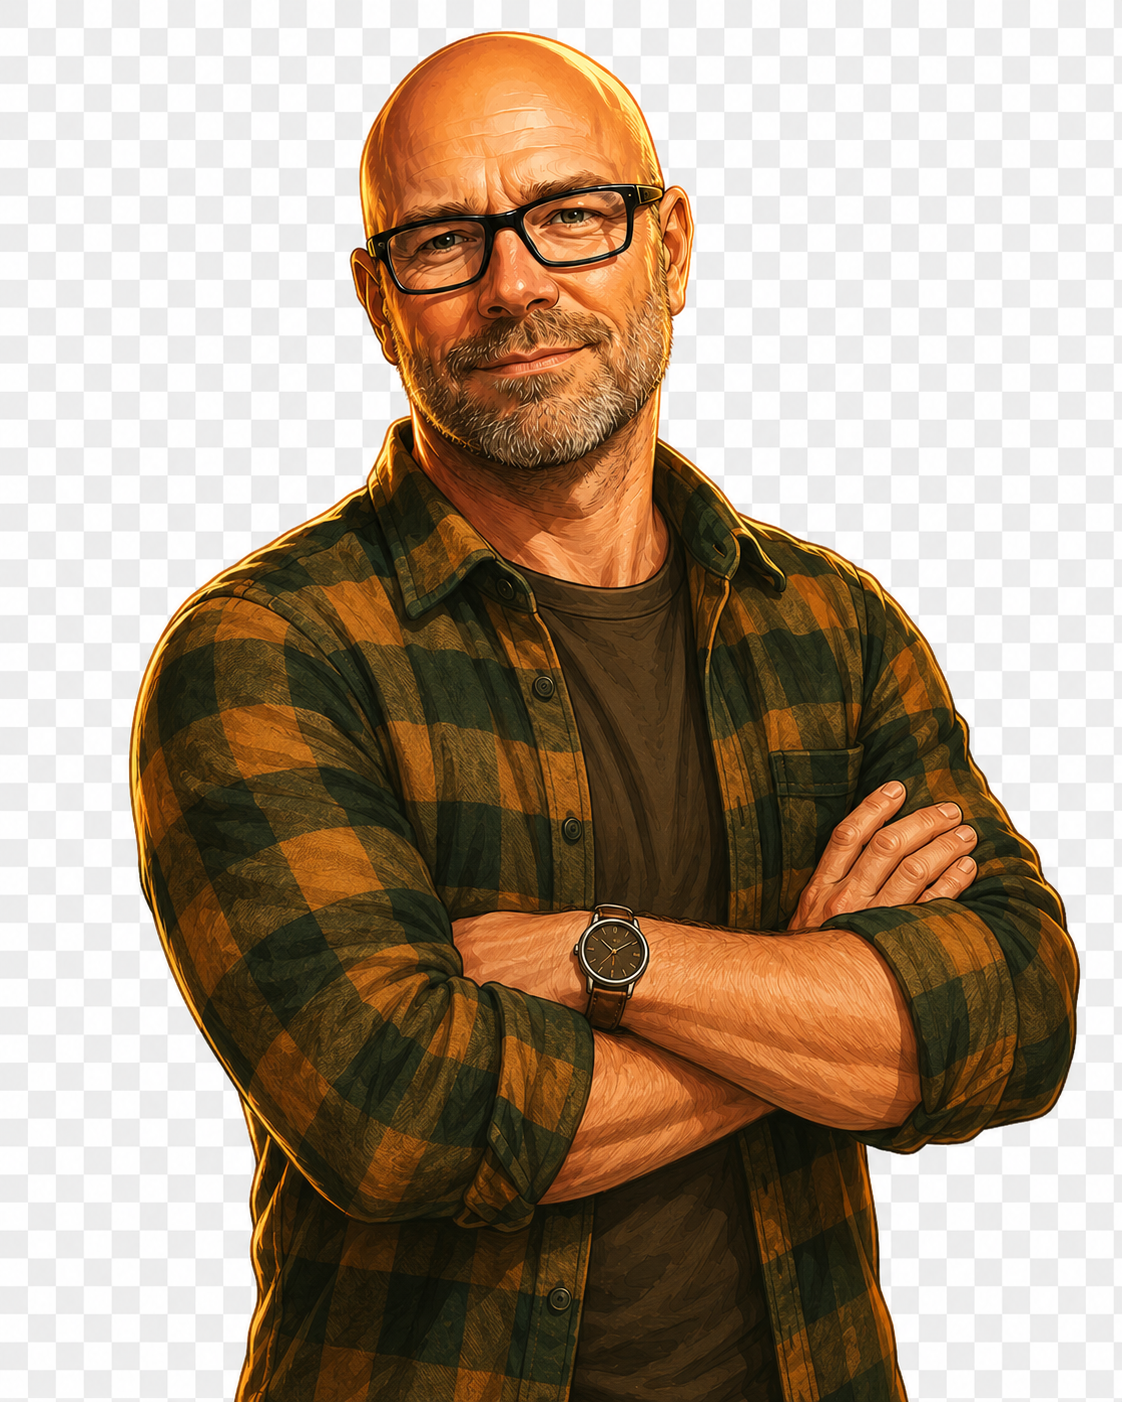
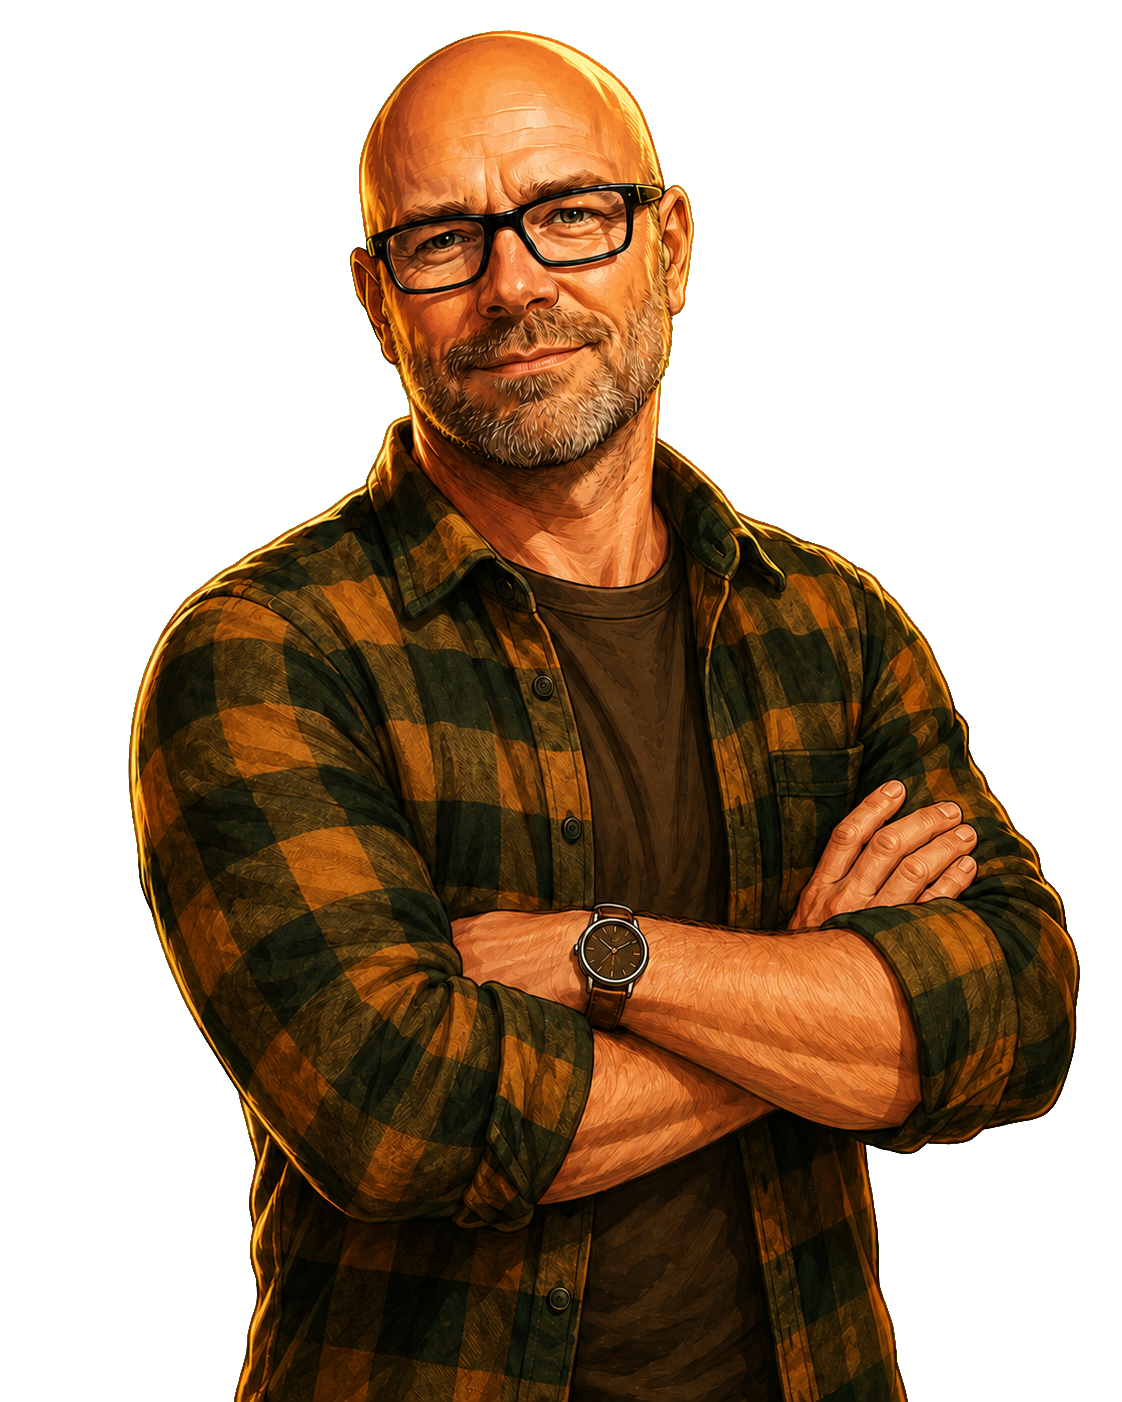
Chroma-key the founder portrait for the Our Story section
Source: Mascot_Don_V3_green.png — same vivid chroma-key green
(~RGB 26/214/31). Ran the same per-pixel chroma-key pipeline used
on the deep-sea variant:
- 757,022 pixels hard-keyed (alpha 0, RGB normalized to white)
- 1,240 edge pixels soft-keyed (partial alpha + green-spill despill)

His buffalo plaid (orange/black/olive) is safe — no overlap with the
high-saturation pure screen-green.

Cache-buster v=2 added to all founder image src references in the
Our Story section so browsers refetch the new transparent version.

diff --git a/index.html b/index.html
@@ -627,14 +627,14 @@ footer{background:#070906;border-top:1px solid var(--line);position:relative;z-i
   <div class="wrap">
     <div class="don-portrait reveal d1">
       <div class="ring"></div>
-      <img class="mascot-img" src="assets/images/bucktail-mascot-founder.png" alt="Don Martin, founder of Bucktail" />
+      <img class="mascot-img" src="assets/images/bucktail-mascot-founder.png?v=2" alt="Don Martin, founder of Bucktail" />
     </div>
     <div>
       <div class="kicker reveal">Our story</div>
       <h2 class="sec reveal d1" style="font-size:clamp(28px,4vw,52px)">Bought for the name.<br>Built for <em>the life.</em></h2>
       <p class="quote reveal d2"><span class="mk">&ldquo;</span>I&rsquo;ve owned Bucktail since 2004 &mdash; it started as a saltwater lure company my uncle built. I bought it because I loved fishing&hellip; and I loved the name. Watching the world go online, I knew what it had to become: <span class="mk">the one place every hunter and angler calls home.</span> This is the thing I want to build for the rest of my life.<span class="mk">&rdquo;</span></p>
       <div class="sig reveal d3">
-        <img src="assets/images/bucktail-mascot-founder.png" alt="Don" style="width:44px;height:44px;border-radius:50%;border:2px solid var(--gold);object-fit:cover;object-position:50% 18%" />
+        <img src="assets/images/bucktail-mascot-founder.png?v=2" alt="Don" style="width:44px;height:44px;border-radius:50%;border:2px solid var(--gold);object-fit:cover;object-position:50% 18%" />
         <div><div class="nm">DON MARTIN</div><div class="rl">Founder, Bucktail.com</div></div>
       </div>
     </div>
